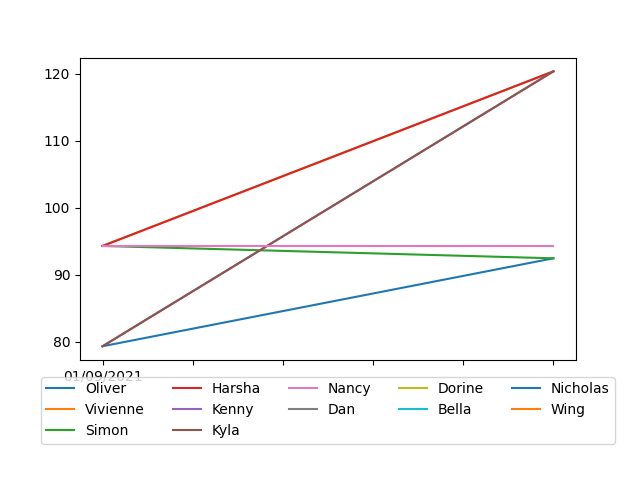
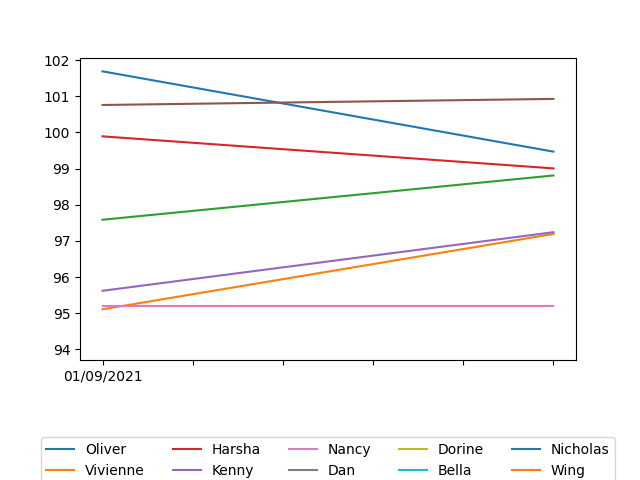
update rankings

diff --git a/parse_results.py b/parse_results.py
@@ -16,20 +16,27 @@ class RatingsInfo:
         return self.elo.mu * 4.0  # scale to 100
 
 def get_elo(d, env, player):
-    ''' Get elo from dict d, if not present, create a new RatingsInfo object and return its elo '''
+    '''
+    Get elo from dict d, if not present, create a new RatingsInfo
+    object and return its elo
+    '''
     if player not in d: d[player] = RatingsInfo(env)
     return d[player].elo
 
 def calc_elo(df):
-    ''' For a given input dataframe, calculates the running elo of each player in each team. Returns
-    a dictionary of players to latest elos, and also returns the running df '''
+    '''
+    For a given input dataframe, calculates the running elo of each player
+    in each team. Returns a dictionary of players to latest elos, and also
+    returns the running df
+    '''
 
     env = TrueSkill(draw_probability=0)
     ratings = {}
     df['elos'] = None
     df['elos'] = df['elos'].astype(object)  # avoid insertion errors later
     for idx, row in df.iterrows():
-        teams = [[get_elo(ratings, env, player) for player in team] for team in row['teams']]
+        teams = [[get_elo(ratings, env, player) for player in team]\
+                for team in row['teams']]
         elos = env.rate(teams, row['ranks'])
         has_winner = sum(row['ranks']) > 0
         for team, team_elos, team_rank in zip(row['teams'], elos, row['ranks']):
@@ -43,7 +50,10 @@ def calc_elo(df):
     return ratings, df
 
 def parse_results():
-    ''' Parses results.txt and runs calc_elo on the aggregate df as well as per-game dfs '''
+    '''
+    Parses results.txt and runs calc_elo on the aggregate df as well
+    as per-game dfs
+    '''
     results = []
     with open('results.txt') as f:
         for line in f.readlines():
@@ -58,11 +68,15 @@ def parse_results():
 
     elos = {}
     for game in res_df.game.unique():
-        elos[game] = calc_elo(res_df.loc[res_df.game == game])[0]
+        elos[game], _ = calc_elo(res_df.loc[res_df.game == game])
+        # (DEBUG) if game == "Secret Hitler": _.to_csv('./test.csv')
     return calc_elo(res_df) + (elos,)  # Tuple concatenation
 
 def main():
-    ''' Calls parse_results() and then updates README.md based on return value. '''
+    '''
+    Calls parse_results() and then updates README.md based on return value.
+    '''
+
     all_ratings, all_df, per_game_ratings = parse_results()
 
 
@@ -80,7 +94,10 @@ def main():
             if player not in best_game or rating.get_elo() > best_game[player][1]:
                 best_game[player] = (game, rating.get_elo())
 
-    for player, rating in sorted(all_ratings.items(), key=lambda item: item[1].get_elo(), reverse=True):
+    for player, rating in sorted(
+            all_ratings.items(),
+            key=lambda item: item[1].get_elo(),
+            reverse=True):
         markdown += '''
 | {} | {:.2f} | {} | {} | {:.2f} | {} |'''.format(
         player, rating.get_elo(), rating.wins, rating.losses,
@@ -89,14 +106,14 @@ def main():
     chart_df = pd.DataFrame()
     for _, row in all_df.iterrows():
         players = list(np.array(row['teams']).flat)
-        print("Hello: {}".format(list(itertools.chain.from_iterable(row['elos']))))
         ratings = [elo.mu * 4 for elo in \
                 itertools.chain.from_iterable(row['elos'])]
         #ratings = [elo.mu * 4 for elo in np.array(row['elos']).flat]
         for player, rating in zip(players, ratings):
             chart_df.at[row['date'], player] = rating
     chart_df.ffill(inplace=True)
-    chart_df.plot.line().legend(loc='lower center', ncol=5, bbox_to_anchor=(0.5, -0.3))
+    chart_df.plot.line().legend(
+            loc='lower center', ncol=5, bbox_to_anchor=(0.5, -0.5))
     plt.subplots_adjust(bottom=0.25)
     plt.savefig('rankings.png')
 

diff --git a/README.md b/README.md
@@ -5,18 +5,18 @@
 
 | Player | ELO | Wins | Losses | Win % | Best Game |
 | --- | --- | --- | --- | --- | --- |
-| Dorine | 124.11 | 4 | 2 | 0.67 | 7 Wonders |
-| Kyla | 120.33 | 7 | 3 | 0.70 | Secret Hitler |
-| Oliver | 103.75 | 7 | 5 | 0.58 | Codenames |
-| Dan | 100.98 | 2 | 4 | 0.33 | Secret Hitler |
-| Nancy | 94.26 | 2 | 4 | 0.33 | Secret Hitler |
-| Kenny | 93.73 | 3 | 5 | 0.38 | Codenames |
-| Harsha | 92.42 | 6 | 6 | 0.50 | Coup |
-| Simon | 88.38 | 5 | 6 | 0.45 | Secret Hitler |
-| Nicholas | 87.78 | 1 | 2 | 0.33 | Secret Hitler |
-| Vivienne | 84.07 | 4 | 8 | 0.33 | Wavelength |
-| Bella | 67.70 | 1 | 4 | 0.20 | Wavelength |
-| Wing | 67.70 | 1 | 4 | 0.20 | Wavelength |
+| Kyla | 100.93 | 7 | 3 | 0.70 | Codenames |
+| Dorine | 100.04 | 4 | 2 | 0.67 | 7 Wonders |
+| Oliver | 99.47 | 7 | 5 | 0.58 | Codenames |
+| Harsha | 99.00 | 6 | 6 | 0.50 | Coup |
+| Simon | 98.81 | 5 | 6 | 0.45 | Secret Hitler |
+| Kenny | 97.24 | 3 | 5 | 0.38 | Codenames |
+| Vivienne | 97.19 | 4 | 8 | 0.33 | Wavelength |
+| Dan | 96.52 | 2 | 4 | 0.33 | Wavelength |
+| Nancy | 95.21 | 2 | 4 | 0.33 | Secret Hitler |
+| Nicholas | 95.10 | 1 | 2 | 0.33 | Wavelength |
+| Wing | 94.09 | 1 | 4 | 0.20 | Wavelength |
+| Bella | 94.09 | 1 | 4 | 0.20 | Wavelength |
 
 ### Rankings over Time
 ![Image](rankings.png)
@@ -37,30 +37,30 @@
 
 | Player | ELO | Wins | Losses | Win % |
 | --- | --- | --- | --- | --- |
-| Kyla | 129.81  | 5 | 1 | 0.83 |
-| Oliver | 113.57  | 4 | 2 | 0.67 |
-| Dorine | 110.32  | 2 | 1 | 0.67 |
-| Dan | 108.74  | 1 | 2 | 0.33 |
-| Simon | 107.32  | 4 | 1 | 0.80 |
-| Nancy | 104.71  | 2 | 2 | 0.50 |
-| Nicholas | 99.21  | 0 | 1 | 0.00 |
-| Harsha | 88.28  | 4 | 2 | 0.67 |
-| Bella | 80.57  | 0 | 3 | 0.00 |
-| Wing | 80.57  | 0 | 3 | 0.00 |
-| Kenny | 74.10  | 1 | 3 | 0.25 |
-| Vivienne | 72.41  | 3 | 3 | 0.50 |
+| Simon | 104.40  | 4 | 1 | 0.80 |
+| Kyla | 103.95  | 5 | 1 | 0.83 |
+| Harsha | 101.71  | 4 | 2 | 0.67 |
+| Oliver | 101.28  | 4 | 2 | 0.67 |
+| Dorine | 100.28  | 2 | 1 | 0.67 |
+| Vivienne | 99.76  | 3 | 3 | 0.50 |
+| Nancy | 97.13  | 2 | 2 | 0.50 |
+| Kenny | 96.33  | 1 | 3 | 0.25 |
+| Dan | 96.17  | 1 | 2 | 0.33 |
+| Wing | 92.09  | 0 | 3 | 0.00 |
+| Bella | 92.09  | 0 | 3 | 0.00 |
+| Nicholas | 89.97  | 0 | 1 | 0.00 |
 
 ### Codenames
 
 | Player | ELO | Wins | Losses | Win % |
 | --- | --- | --- | --- | --- |
-| Kenny | 117.32  | 1 | 0 | 1.00 |
-| Kyla | 117.32  | 1 | 0 | 1.00 |
-| Oliver | 117.32  | 1 | 0 | 1.00 |
-| Nancy | 82.68  | 0 | 1 | 0.00 |
-| Vivienne | 82.68  | 0 | 1 | 0.00 |
-| Simon | 82.68  | 0 | 1 | 0.00 |
-| Harsha | 82.68  | 0 | 1 | 0.00 |
+| Kyla | 110.38  | 1 | 0 | 1.00 |
+| Oliver | 110.38  | 1 | 0 | 1.00 |
+| Kenny | 110.38  | 1 | 0 | 1.00 |
+| Harsha | 92.21  | 0 | 1 | 0.00 |
+| Nancy | 92.21  | 0 | 1 | 0.00 |
+| Simon | 92.21  | 0 | 1 | 0.00 |
+| Vivienne | 92.21  | 0 | 1 | 0.00 |
 
 ### 7 Wonders
 
@@ -77,14 +77,14 @@
 
 | Player | ELO | Wins | Losses | Win % |
 | --- | --- | --- | --- | --- |
-| Kyla | 103.71  | 1 | 1 | 0.50 |
-| Harsha | 103.71  | 1 | 1 | 0.50 |
-| Vivienne | 103.71  | 1 | 1 | 0.50 |
-| Kenny | 103.71  | 1 | 1 | 0.50 |
-| Dan | 103.71  | 1 | 1 | 0.50 |
-| Simon | 96.29  | 1 | 1 | 0.50 |
-| Oliver | 96.29  | 1 | 1 | 0.50 |
-| Wing | 96.29  | 1 | 1 | 0.50 |
-| Dorine | 96.29  | 1 | 1 | 0.50 |
-| Bella | 96.29  | 1 | 1 | 0.50 |
-| Nicholas | 96.29  | 1 | 1 | 0.50 |
+| Vivienne | 101.10  | 1 | 1 | 0.50 |
+| Harsha | 101.10  | 1 | 1 | 0.50 |
+| Kenny | 101.10  | 1 | 1 | 0.50 |
+| Dan | 101.10  | 1 | 1 | 0.50 |
+| Kyla | 101.10  | 1 | 1 | 0.50 |
+| Nicholas | 98.90  | 1 | 1 | 0.50 |
+| Bella | 98.90  | 1 | 1 | 0.50 |
+| Oliver | 98.90  | 1 | 1 | 0.50 |
+| Simon | 98.90  | 1 | 1 | 0.50 |
+| Wing | 98.90  | 1 | 1 | 0.50 |
+| Dorine | 98.90  | 1 | 1 | 0.50 |
